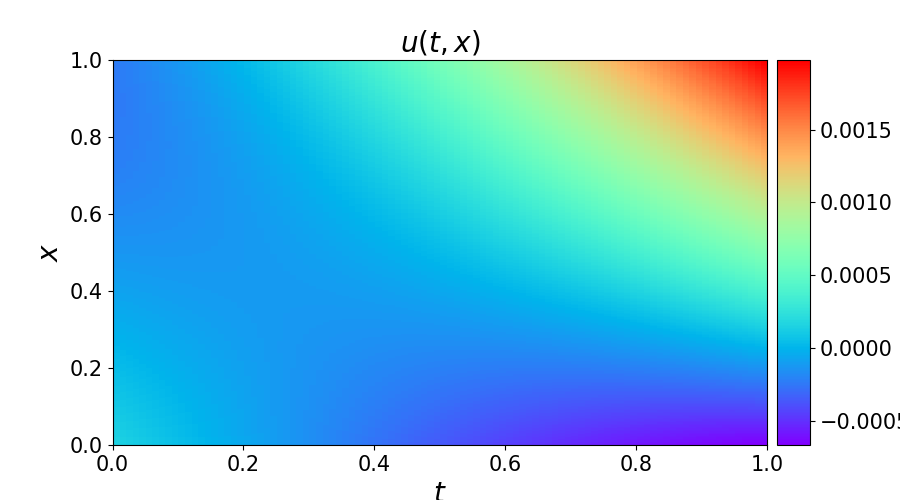
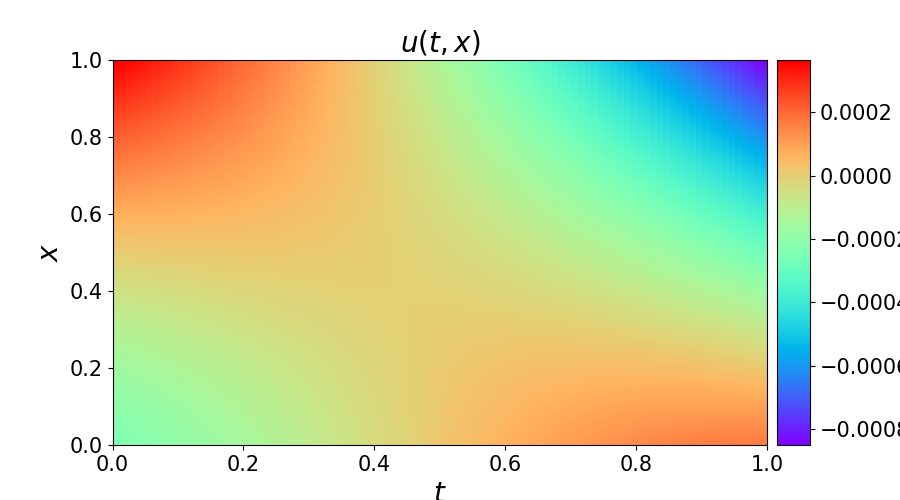
lr

diff --git a/Aupported_Beam_Equation/model.py b/Aupported_Beam_Equation/model.py
@@ -220,7 +220,7 @@ class PhysicsInformedNN:
         loss_u_xx = torch.mean((self.u_derivative_xx - u_xx_pred) ** 2)
         loss_u_t = torch.mean((self.u_derivative_t - u_t_pred) ** 2)
 
-        loss = (loss_u + loss_f + loss_u_xx + loss_u_t)*1000
+        loss = (loss_u + loss_f + loss_u_xx + loss_u_t)*1
 
         loss.backward()
         self.iter += 1

diff --git a/Aupported_Beam_Equation/plot_result.py b/Aupported_Beam_Equation/plot_result.py
@@ -11,7 +11,7 @@ from model import *
 
 
 if __name__ == '__main__':
-    data = scipy.io.loadmat("pred-14.mat")
+    data = scipy.io.loadmat("pred-15.mat")
     u_pred = np.real(data["u_pred"])
     
     
